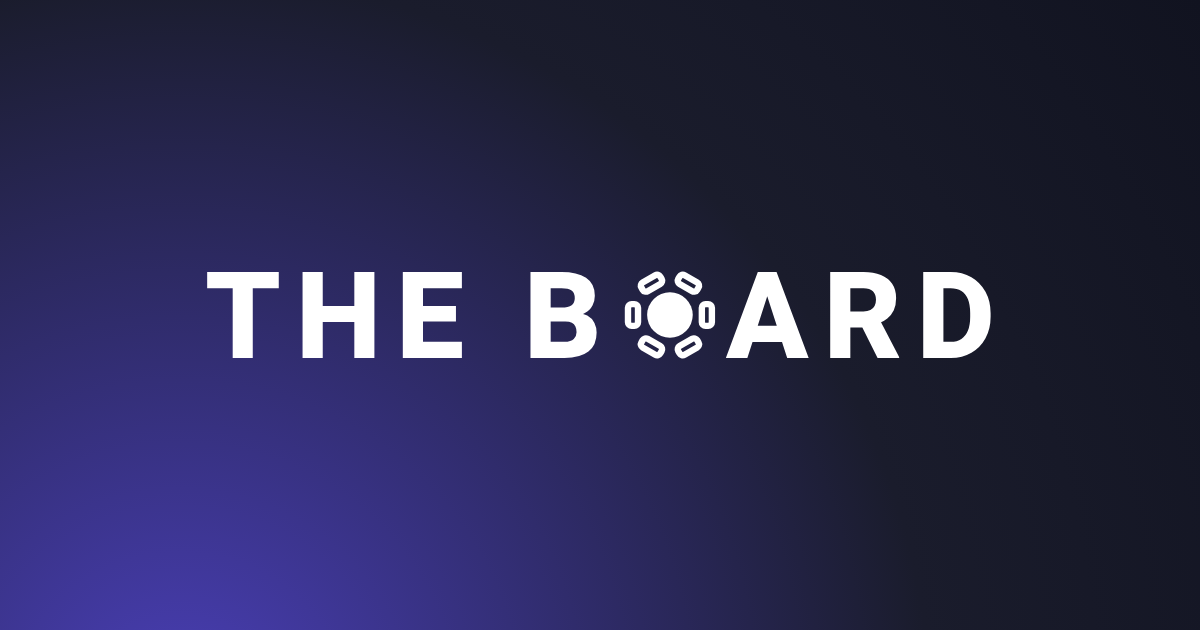
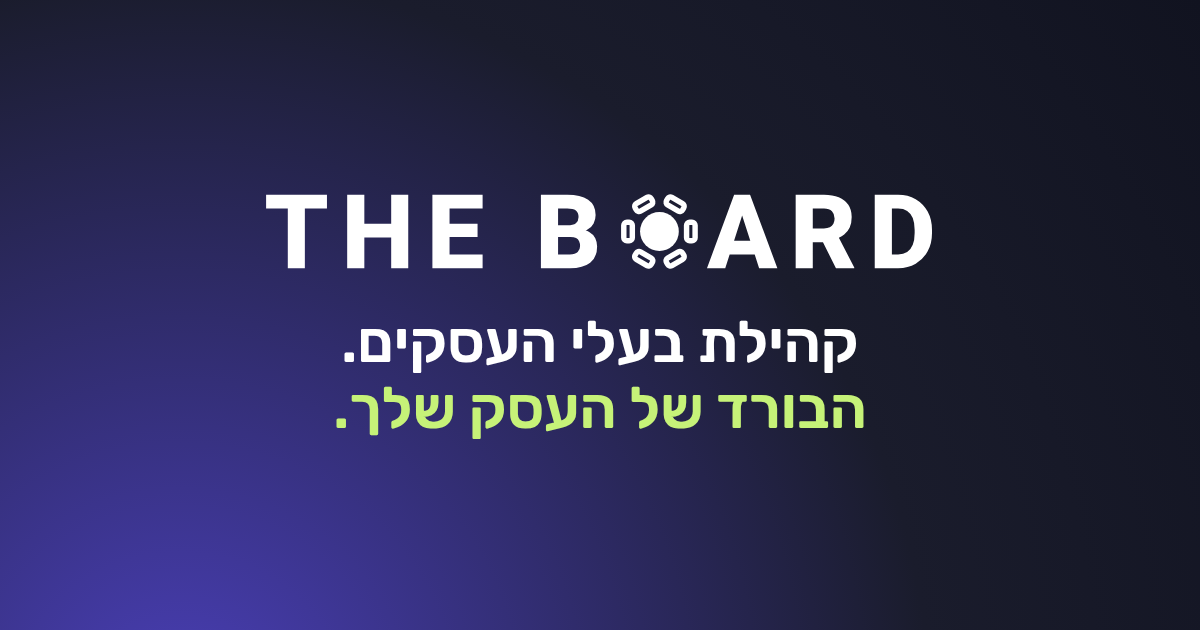
Slogan: The Board | קהילת בעלי העסקים. הבורד של העסק שלך (title, og, og-image)
Claude-Session: https://claude.ai/code/session_0119jvxtAyyRz51q8udzvaVq

Changed region(s): [[0.1542, 0.3016, 0.8325, 0.6937]]

diff --git a/download/the-board-landing.html b/download/the-board-landing.html
@@ -3,15 +3,15 @@
 <head>
 <meta charset="utf-8">
 <meta name="viewport" content="width=device-width,initial-scale=1,viewport-fit=cover">
-<title>The Board · קהילת יזמים - הבורד של העסק שלך</title>
+<title>The Board | קהילת בעלי העסקים. הבורד של העסק שלך</title>
 <link rel="icon" href="/brand/the-board-icon-dark-bg.svg?v=3" type="image/svg+xml">
 <link rel="icon" href="/brand/favicon-32.png?v=3" sizes="32x32" type="image/png">
 <link rel="apple-touch-icon" href="/brand/apple-touch-icon.png?v=3">
 <meta property="og:type" content="website">
 <meta property="og:site_name" content="The Board">
-<meta property="og:title" content="קהילת יזמים - הבורד של העסק שלך">
+<meta property="og:title" content="The Board | קהילת בעלי העסקים. הבורד של העסק שלך">
 <meta property="og:url" content="https://the-board.co.il/">
-<meta property="og:image" content="https://the-board.co.il/brand/og-image.png?v=3">
+<meta property="og:image" content="https://the-board.co.il/brand/og-image.png?v=4">
 <meta property="og:image:width" content="1200">
 <meta property="og:image:height" content="630">
 <meta name="twitter:card" content="summary_large_image">

diff --git a/index.html b/index.html
@@ -3,15 +3,15 @@
 <head>
 <meta charset="utf-8">
 <meta name="viewport" content="width=device-width,initial-scale=1,viewport-fit=cover">
-<title>The Board · קהילת יזמים - הבורד של העסק שלך</title>
+<title>The Board | קהילת בעלי העסקים. הבורד של העסק שלך</title>
 <link rel="icon" href="/brand/the-board-icon-dark-bg.svg?v=3" type="image/svg+xml">
 <link rel="icon" href="/brand/favicon-32.png?v=3" sizes="32x32" type="image/png">
 <link rel="apple-touch-icon" href="/brand/apple-touch-icon.png?v=3">
 <meta property="og:type" content="website">
 <meta property="og:site_name" content="The Board">
-<meta property="og:title" content="קהילת יזמים - הבורד של העסק שלך">
+<meta property="og:title" content="The Board | קהילת בעלי העסקים. הבורד של העסק שלך">
 <meta property="og:url" content="https://the-board.co.il/">
-<meta property="og:image" content="https://the-board.co.il/brand/og-image.png?v=3">
+<meta property="og:image" content="https://the-board.co.il/brand/og-image.png?v=4">
 <meta property="og:image:width" content="1200">
 <meta property="og:image:height" content="630">
 <meta name="twitter:card" content="summary_large_image">
